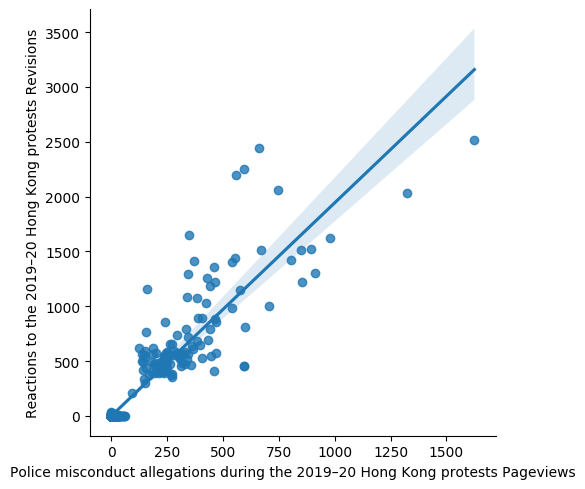
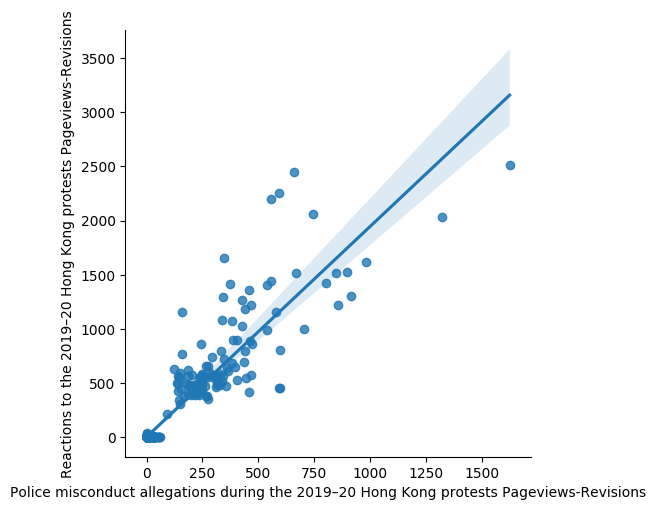
fix pageview-revision plots

diff --git a/correlation.py b/correlation.py
@@ -316,7 +316,7 @@ def plotRVCorrelations(viewDct, revDct):
 
         sns_plot = sns.lmplot(x='X',y='Y',data=df,fit_reg=True)
         # https://stackoverflow.com/questions/31632637/label-axes-on-seaborn-barplot
-        sns_plot.set(xlabel = keyx + " Pageviews", ylabel=keyy + " Revisions")
+        sns_plot.set(xlabel = keyx + " Pageviews-Revisions", ylabel=keyy + " Pageviews-Revisions")
         sns_plot.savefig(os.path.join(viewRevSavePath, keyx+" " +keyy + ".png"))
         # ax = df.plot(x='X', y='Y', kind='scatter')
         # ax.set_xlabel(keyx + " Revisions")
